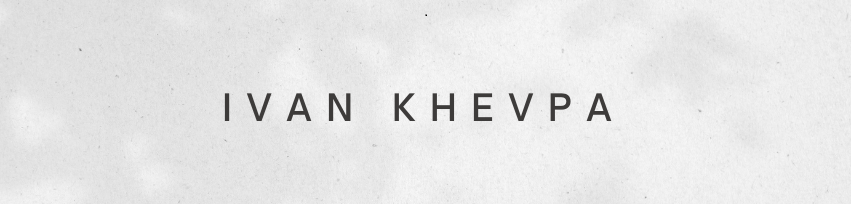
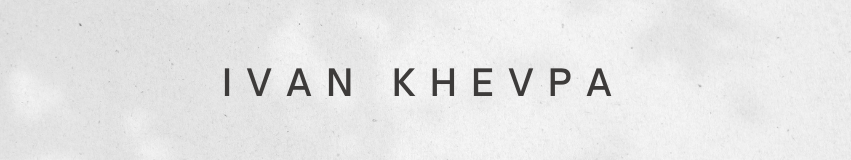
Change header

Changed region(s): [[0.4583, 0.4062, 0.7333, 0.5938], [0.2444, 0.4375, 0.4277, 0.5938], [0.5499, 0.5625, 0.5805, 0.625]]

diff --git a/README.md b/README.md
@@ -1,4 +1,4 @@
-![Header](https://github.com/ivankhevpa/ivankhevpa/blob/main/assets/header.png)
+
 
 ## Hi there 👋
 ## I am beginner QA Engineer
